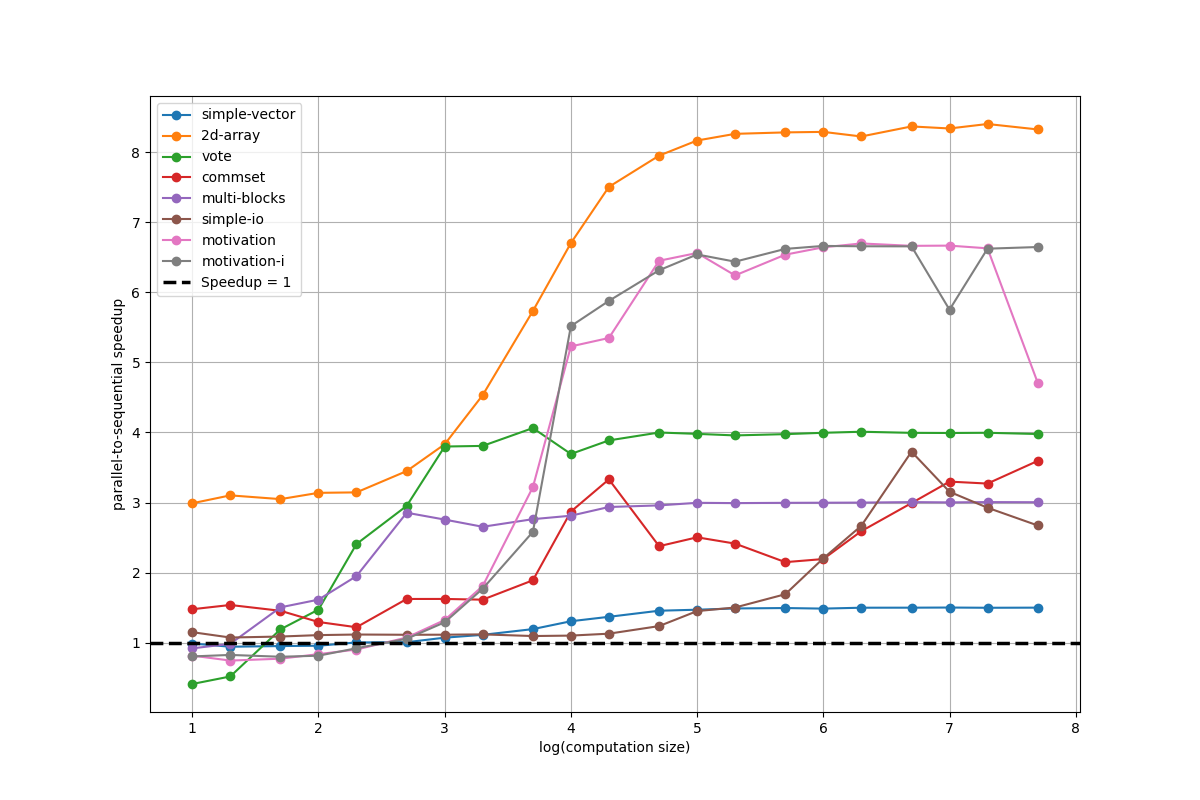
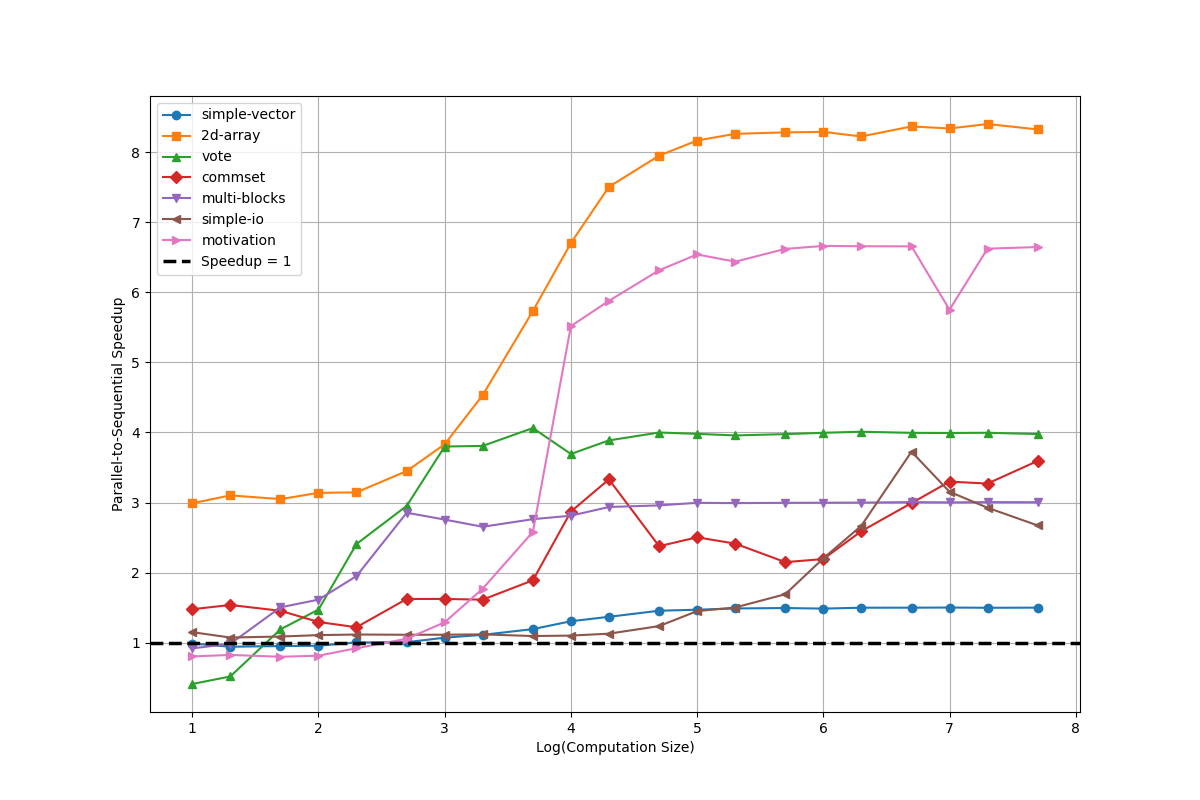
new plots + minor edits

diff --git a/reports/speedup_dswp_nc.py b/reports/speedup_dswp_nc.py
@@ -72,20 +72,13 @@ def prep_simpleio(n):
 
 # Program name, followed by any command line arguments
 benchmarks : List[Benchmark] = [
-    ("benchmarks/global_commutativity/simple-vector.vcy", lambda n : [str(n)])
-    ,
-    ("benchmarks/global_commutativity/2d-array.vcy", lambda n : [str(n)])
-    ,
-    ("benchmarks/global_commutativity/vote-run.vcy", lambda n : [str(n)])
-    ,
-    ("benchmarks/global_commutativity/commset.vcy", prep_commset)
-    ,
-    ("benchmarks/global_commutativity/multi-blocks.vcy", lambda n : [str(n)])
-    ,
-    ("benchmarks/global_commutativity/simple-io.vcy", prep_simpleio)
-    ,
-    ("benchmarks/global_commutativity/motivation.vcy", lambda n : [str(n * 10), "10"])
-    
+    ("benchmarks/global_commutativity/simple-vector.vcy", lambda n : [str(n)]),
+    ("benchmarks/global_commutativity/2d-array.vcy", lambda n : [str(n)]),
+    ("benchmarks/global_commutativity/vote-run.vcy", lambda n : [str(n)]),
+    ("benchmarks/global_commutativity/commset.vcy", prep_commset),
+    ("benchmarks/global_commutativity/multi-blocks.vcy", lambda n : [str(n)]),
+    ("benchmarks/global_commutativity/simple-io.vcy", prep_simpleio),
+    ("benchmarks/global_commutativity/motivation.vcy", lambda n : [str(n * 100), "10"])
 ]
     
 def replace_commutativity_predicate_in_memory(code: str) -> str:

diff --git a/reports/speedup_plot.py b/reports/speedup_plot.py
@@ -27,16 +27,18 @@ N = data.iloc[:, 0]
 log_N = np.log10(N)
 columns = data.columns[1:]
 
+markers = ['o', 's', '^', 'D', 'v', '<', '>', 'p', '*', 'H', '+', 'x']
+
 plt.figure(figsize=(12, 8))
-for column in columns:
+for i, column in enumerate(columns):
     label = column.replace("vote-run", "vote")
-    plt.plot(log_N, data[column], label=label, marker='o')
+    plt.plot(log_N, data[column], label=label, marker=markers[i % len(markers)])
 
 # Add horizontal line for speedup = 1
 plt.axhline(y=1, color='black', linestyle='--', label='Speedup = 1', linewidth=2.5)
 
-plt.xlabel('log(computation size)')
-plt.ylabel('parallel-to-sequential speedup')
+plt.xlabel('Log(Computation Size)')
+plt.ylabel('Parallel-to-Sequential Speedup')
 plt.legend()
 plt.grid(True)
 
